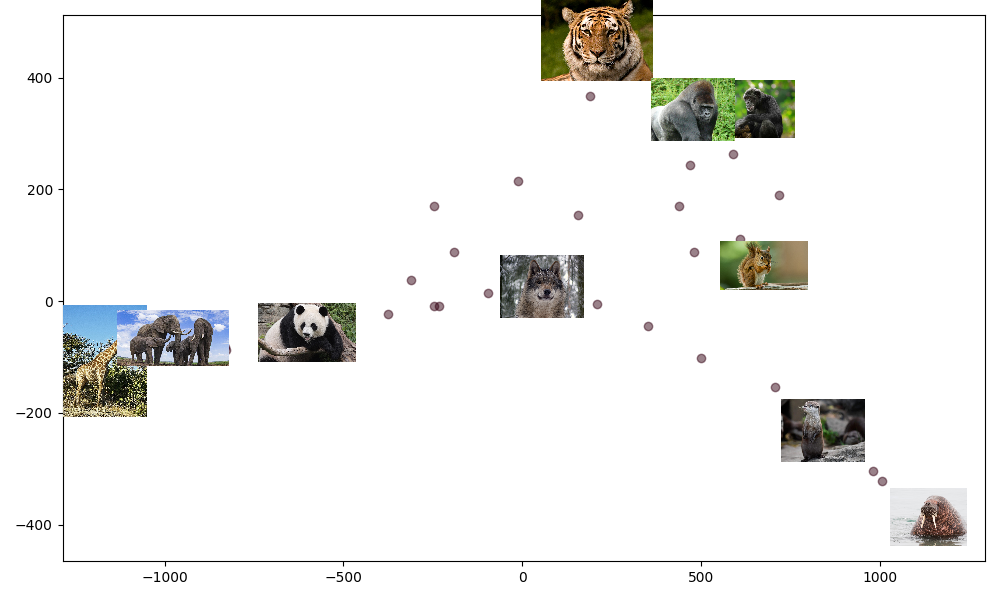
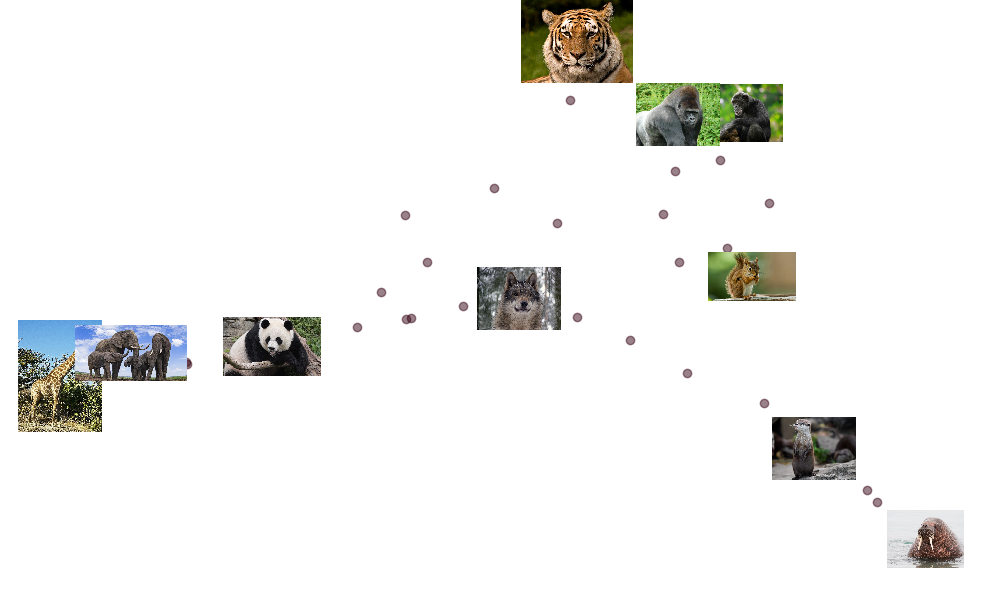
Delete axis

diff --git a/Patrones/Tarea_03/Parte_02/Scripts/Isomap.py b/Patrones/Tarea_03/Parte_02/Scripts/Isomap.py
@@ -23,7 +23,7 @@ for index in Isomap_model.animals_index:
                ax,
                position
                )
-# plt.axis("off")
+plt.axis("off")
 plt.tight_layout()
 plt.savefig(join_path(parameters["path graphics"],
                       parameters["file graphics"]))
